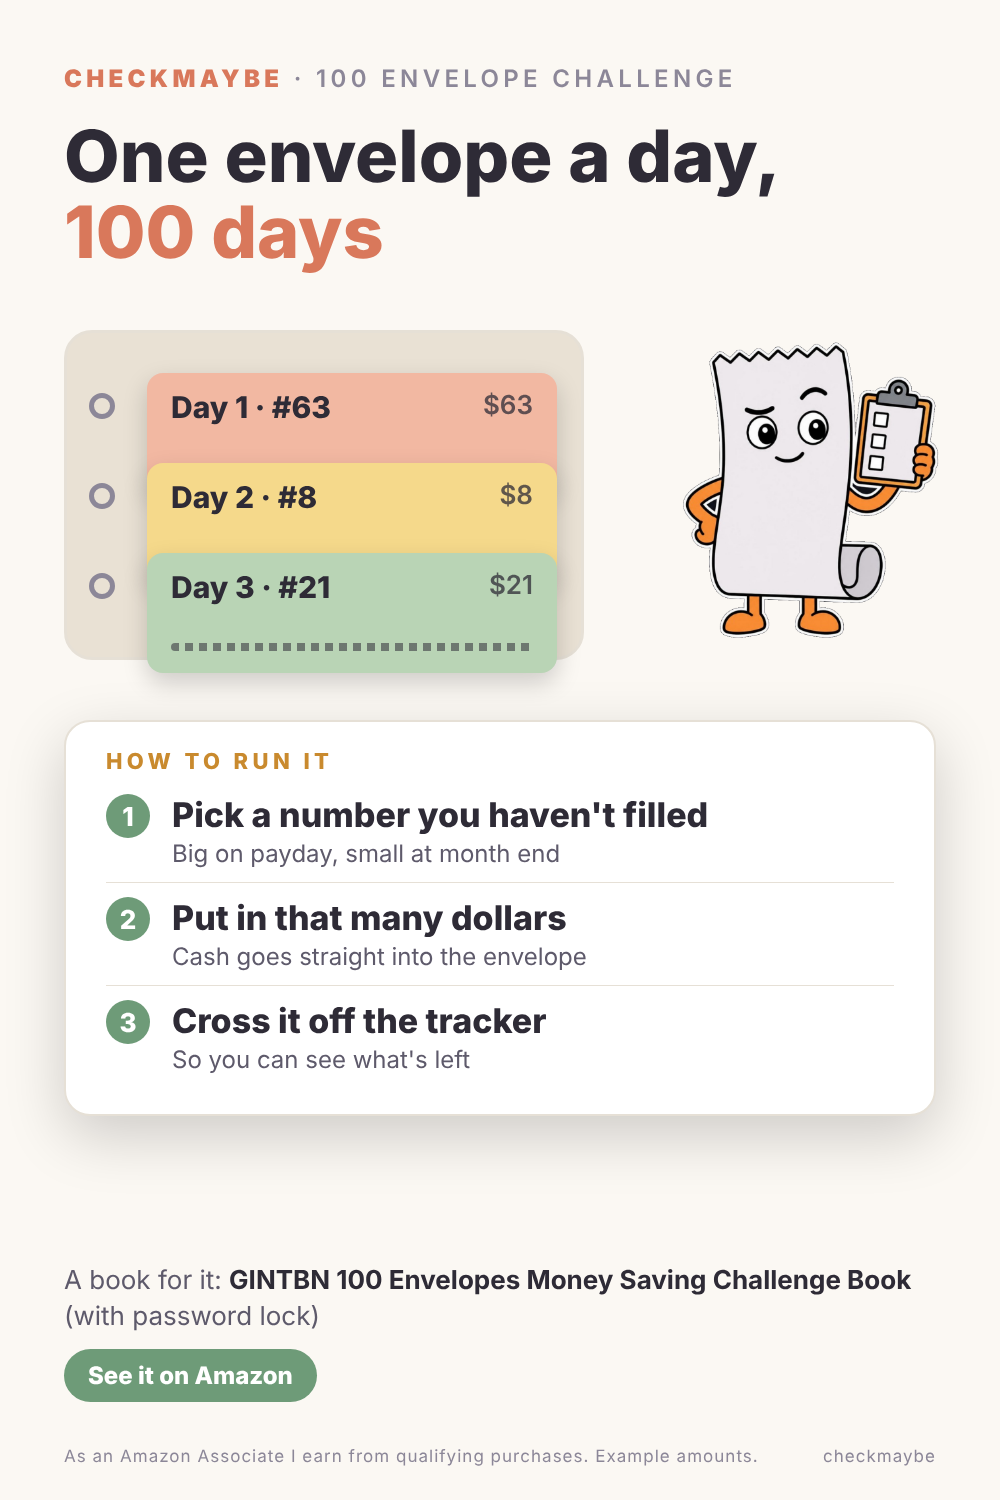
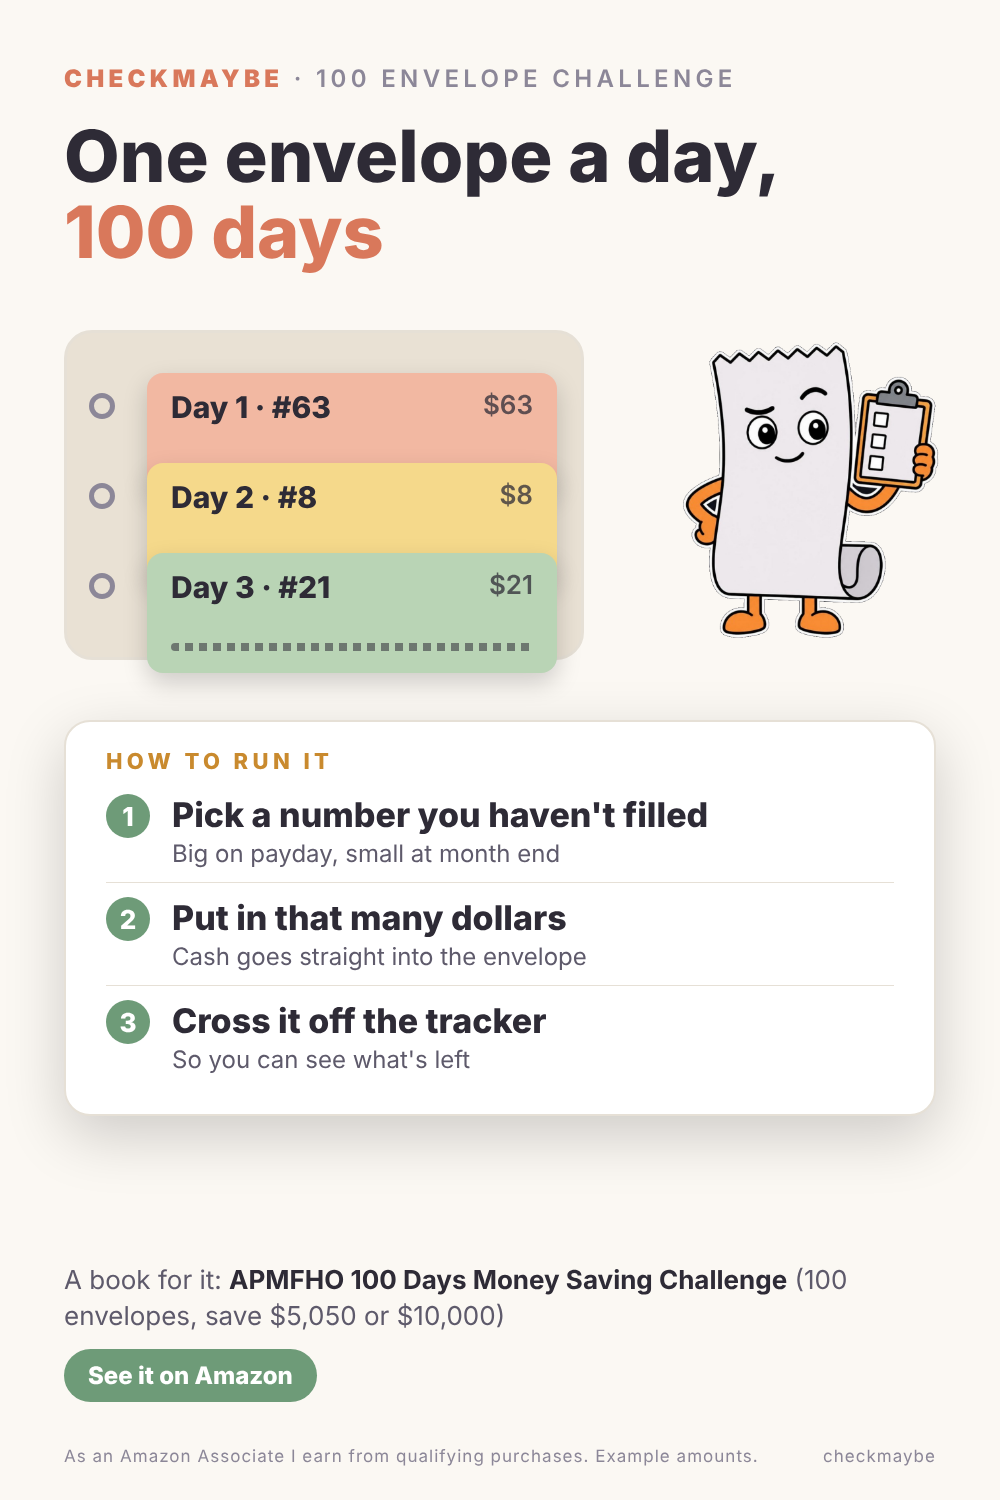
Amazon pin az8: switch from GINTBN to APMFHO (J approved)
Claude-Session: https://claude.ai/code/session_012dBA7SqmaqwCRXrXc8dwP2

Changed region(s): [[0.062, 0.828, 0.899, 0.8893]]

diff --git a/content/pinterest/2026-11/build_pins_v15_amazon.py b/content/pinterest/2026-11/build_pins_v15_amazon.py
@@ -105,7 +105,7 @@ PINS = [
          rows=[("Pick a number you haven't filled", "Big on payday, small at month end"),
                ("Put in that many dollars", "Cash goes straight into the envelope"),
                ("Cross it off the tracker", "So you can see what's left")],
-         pick='A book for it: <b>GINTBN 100 Envelopes Money Saving Challenge Book</b> (with password lock)'),
+         pick='A book for it: <b>APMFHO 100 Days Money Saving Challenge</b> (100 envelopes, save $5,050 or $10,000)'),
     dict(id="az9", slug="savings-challenge", themes=["light"], art=f"{A3}/happy.jpg", kicker="New year savings",
          h1="Start January 1,<br><em>done by April 10</em>",
          envs=[("Jan 1", "Day 1"), ("Feb 28", "Day 59"), ("Apr 10", "Day 100")],

diff --git a/content/pinterest/2026-11/pins-v15-amazon.md b/content/pinterest/2026-11/pins-v15-amazon.md
@@ -14,7 +14,7 @@ Posting (J 2026-11-20): 2 to 3 pins a day to build volume. Mix product types eac
 | az5 | Envelope empty, category done | Ginmlyda https://www.amazon.com/dp/B09D9KLNGL | `<amzn.to>` |
 | az6 | 100 envelopes = $5,050 | APMFHO 100 Days Money Saving Challenge (J's pick 2026-11-20: 4.5 stars, 912 ratings, Amazon's Choice, 500+ bought past month, $7.99) | `https://link.amazon/B03V55wCK` |
 | az7 | Do 50 envelopes ($1,275) | RONMONG 100 Envelopes Challenge Binder with cash envelopes, tracker and budget sheets (J checked 2026-11-20: 4.7 stars, 907 ratings, Amazon's Choice, $7.99 Prime) | `https://link.amazon/B00pAkp7u` |
-| az8 | One envelope a day, 100 days | GINTBN https://www.amazon.com/dp/B0FD3C5PTF | `<amzn.to>` |
+| az8 | One envelope a day, 100 days | APMFHO (same as az6; GINTBN dropped 2026-11-20: 4.2 stars, 132 ratings, no Prime, ships Dec 7) | same as az6 |
 | az9 | Start Jan 1, done by Apr 10 | APMFHO (same as az6) | same as az6 |
 | az10 | Tight week, small envelope | RONMONG (same as az7) | same as az7 |
 | az11 | Planner that starts any month | Taja Budget Planner, undated, with expense tracker (J checked 2026-11-20: 4.6 stars, 4,846 ratings, Amazon's Choice, 2K+ bought past month, $7.59 Prime) | `https://link.amazon/B0awgKY70` |
@@ -23,7 +23,7 @@ Posting (J 2026-11-20): 2 to 3 pins a day to build volume. Mix product types eac
 | az14 | One pocket a month | SOLIGT (same as az12) | same as az12 |
 | az15 | 10-minute weekly check | Taja (same as az11) | same as az11 |
 
-10 links needed in total (SKYDUE, NICOOTH, Antner, Nefeeko, Ginmlyda, APMFHO, RONMONG, GINTBN, Taja, SOLIGT).
+10 links needed in total (SKYDUE, NICOOTH, Antner, Nefeeko, Ginmlyda, APMFHO, RONMONG, Taja, SOLIGT).
 Math on the savings pins: 1 + 2 + ... + 100 = 5,050; 1 + ... + 50 = 1,275; Jan 1, 2027 is day 1, Feb 28 day 59, Apr 10 day 100.
 
 ## Schedule (2 to 3 a day)
@@ -77,7 +77,7 @@ Disclosure line (end of every description): `As an Amazon Associate I earn from 
 
 ### az8
 - **Title:** 100 Envelope Challenge: One Envelope a Day for 100 Days
-- **Description:** Each day pick a number you haven't filled yet, put in that many dollars and cross it off. Big numbers on payday, small ones at the end of the month. Book in the example: GINTBN 100 Envelopes Money Saving Challenge Book with password lock. As an Amazon Associate I earn from qualifying purchases. #100envelopechallenge #savingschallenge #cashstuffing
+- **Description:** Each day pick a number you haven't filled yet, put in that many dollars and cross it off. Big numbers on payday, small ones at the end of the month. Book in the example: APMFHO 100 Days Money Saving Challenge, 100 envelopes to save $5,050 or $10,000. As an Amazon Associate I earn from qualifying purchases. #100envelopechallenge #savingschallenge #cashstuffing
 - **Alt text:** Day 1 envelope 63, day 2 envelope 8, day 3 envelope 21, with three steps to run the challenge.
 
 ### az9
